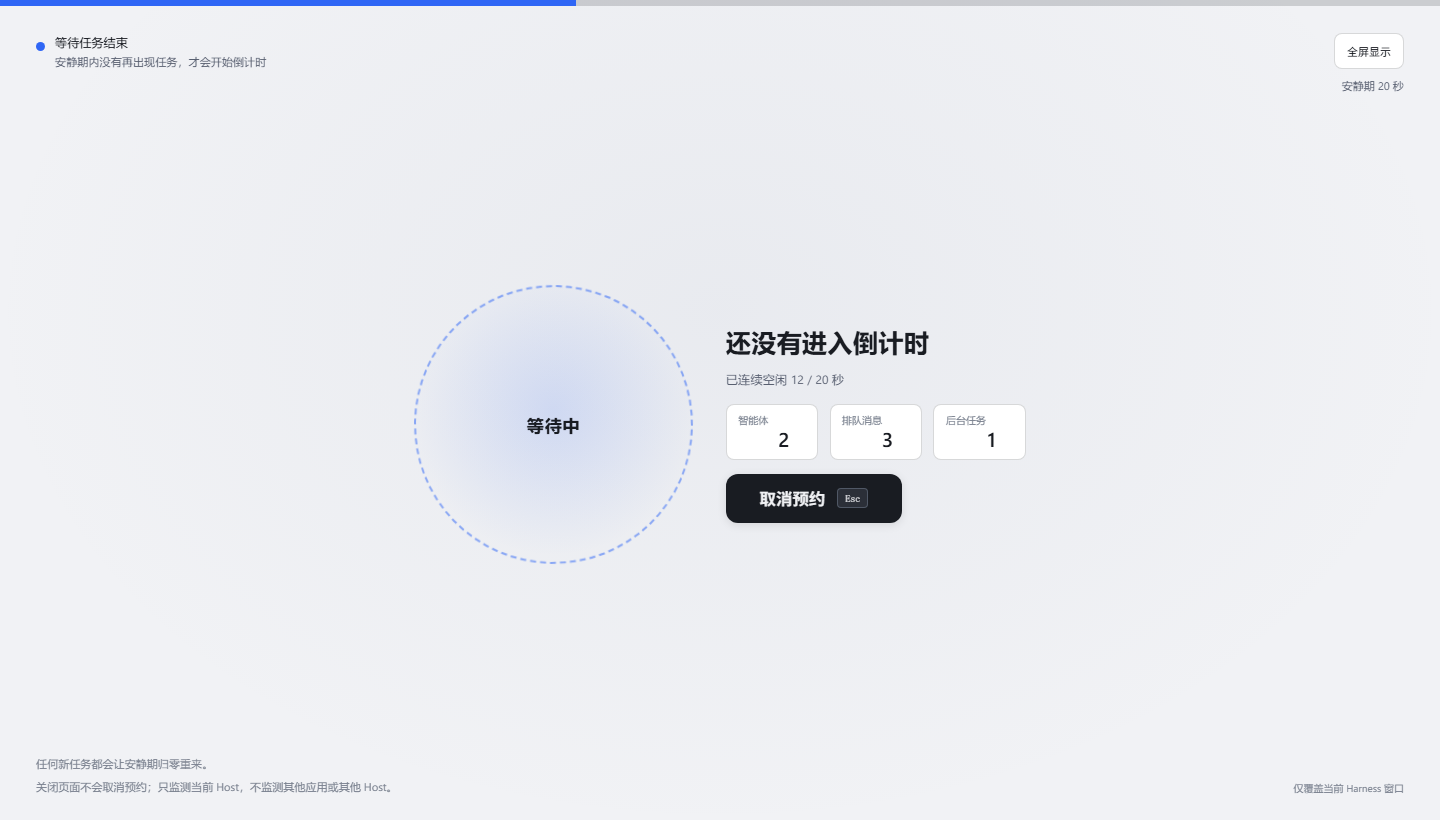
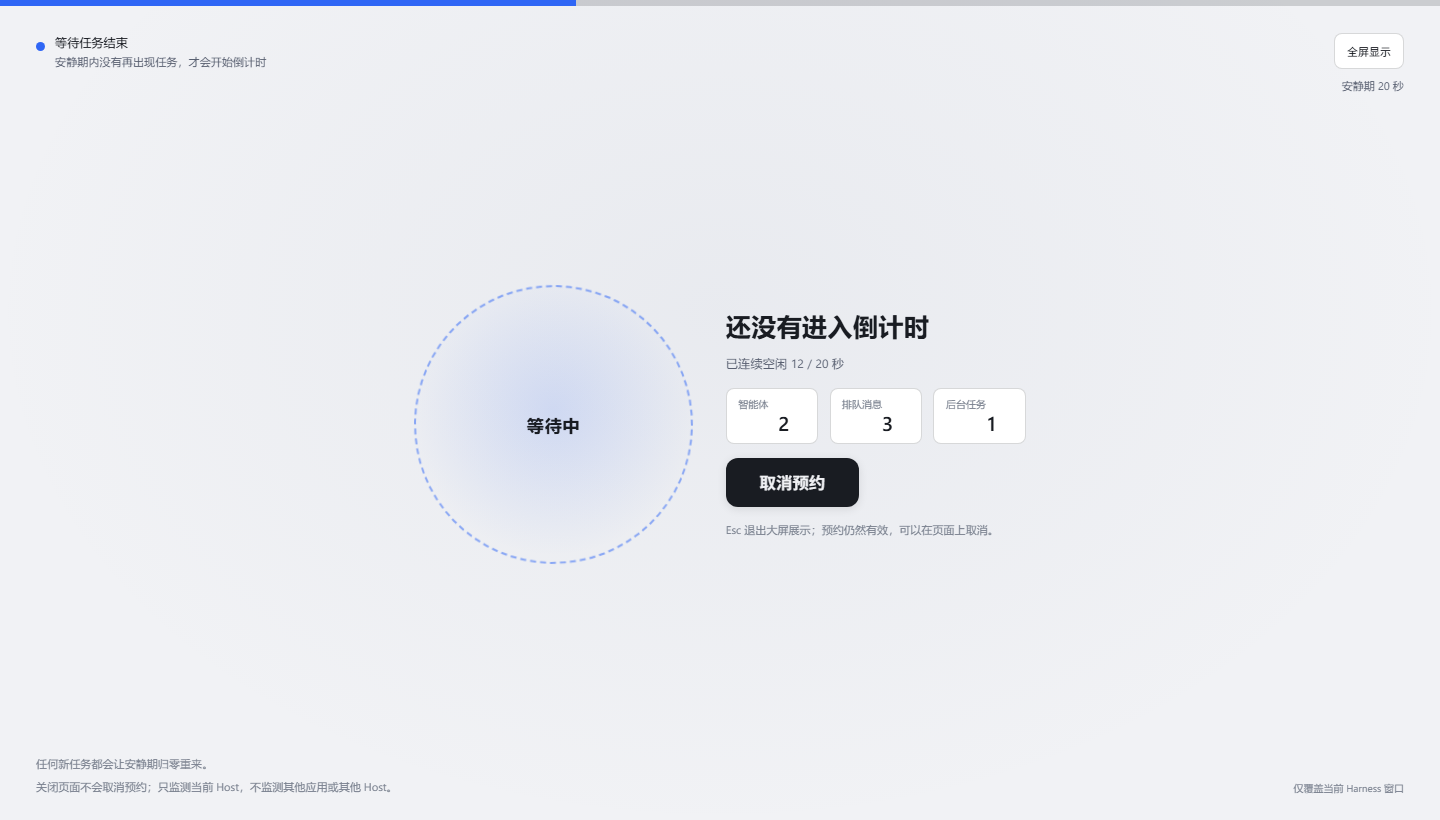
fix(wait): Escape leaves the big screen, not just the OS fullscreen
With "full screen while waiting" on, the first Escape only dropped the window
out of fullscreen while the waiting overlay stayed: neither the app nor the
fullscreen presentation, and the cancel button still advertised Escape for an
action Escape no longer performed.

- The waiting screen is a presentation, not a dialog: Escape now dismisses it
  and releases the screen together, returning to the page with the reservation
  untouched. The dismissal lasts for that waiting phase; the next arm shows the
  screen again.
- The countdown stays non-dismissible on purpose — it is the last warning before
  an irreversible action. While fullscreen it now says so: "Esc leaves
  fullscreen first (the countdown keeps running); a second press cancels."
- The waiting screen's cancel button drops the `Esc` hint and explains what
  Escape actually does.

Changed region(s): [[0.5, 0.3659, 0.6562, 0.5488], [0.5, 0.5183, 0.6875, 0.6707], [0.6562, 0.4878, 0.6875, 0.5183]]

diff --git a/client.js b/client.js
@@ -78,6 +78,7 @@ window.__ModuleLoader__.load({
       'wait.inbox': '排队消息',
       'wait.jobs': '后台任务',
       'wait.hint': '任何新任务都会让安静期归零重来。',
+      'wait.escHint': 'Esc 退出大屏展示；预约仍然有效，可以在页面上取消。',
       'section.notes': '说明',
       'mode.hibernate': '休眠',
       'mode.hibernateDesc': '内存快照落盘，等于断电；下次开机原样恢复窗口和未保存的内容。',
@@ -123,6 +124,7 @@ window.__ModuleLoader__.load({
       'countdown.suffix': '秒',
       'countdown.cancel': '取消',
       'countdown.hint': '有任何新任务开始，倒计时会自动作废。',
+      'countdown.escFullscreen': 'Esc 先退出全屏（倒计时继续），再按一次才会取消。',
       'countdown.quietDone': '已通过 %s 秒持续空闲',
       'countdown.scheduledAt': '预计 %s 执行（本机时间）',
       'countdown.window': '倒计时窗口 %s 秒',
@@ -215,6 +217,7 @@ window.__ModuleLoader__.load({
       'wait.inbox': 'Queued',
       'wait.jobs': 'Jobs',
       'wait.hint': 'Any new task restarts the quiet window.',
+      'wait.escHint': 'Esc closes the big screen; the reservation stays and can be cancelled on the page.',
       'section.notes': 'Notes',
       'mode.hibernate': 'Hibernate',
       'mode.hibernateDesc': 'Writes a memory snapshot to disk, so the next boot restores every open window and unsaved edit.',
@@ -260,6 +263,7 @@ window.__ModuleLoader__.load({
       'countdown.suffix': 's',
       'countdown.cancel': 'Cancel',
       'countdown.hint': 'Any new task voids this countdown automatically.',
+      'countdown.escFullscreen': 'Esc leaves fullscreen first (the countdown keeps running); a second press cancels.',
       'countdown.quietDone': '%s s of continuous idle passed',
       'countdown.scheduledAt': 'Scheduled for %s (local time)',
       'countdown.window': '%s s cancellation window',
@@ -607,6 +611,8 @@ background-color:rgba(9,11,16,.42);
 .ipa-notes{display:flex;flex-direction:column;gap:5px;max-width:min(86ch,72vw)}
 .ipa-notes .ipa-hint{font-size:clamp(11px,1.35vmin,15px);color:var(--dsw-alias-label-tertiary);line-height:1.6;margin:0;overflow-wrap:anywhere}
 .ipa-notes .ipa-hintWarn{color:var(--dsw-alias-label-secondary)}
+/* A hint that sits with the controls rather than in the footer notes. */
+.ipa-stageText .ipa-hintInline{font-size:clamp(11px,1.35vmin,15px);color:var(--dsw-alias-label-tertiary);line-height:1.6;margin:0;max-width:min(56ch,80vw)}
 .ipa-scopeTag{font-size:clamp(10px,1.15vmin,13px);color:var(--dsw-alias-label-tertiary);text-align:right;white-space:nowrap}
 .ipa-feedback{color:var(--dsw-alias-state-error-primary);font-size:clamp(12px,1.5vmin,17px);line-height:1.5;max-width:520px;overflow-wrap:anywhere}
 .ipa-mirrorNote{font-size:clamp(10px,1.15vmin,13px);color:var(--dsw-alias-label-tertiary);line-height:1.5;max-width:44ch}
@@ -773,7 +779,7 @@ background-color:rgba(9,11,16,.42);
      * @returns store handle and the actions every surface shares.
      */
     function createRuntime(ctx) {
-      const store = createStore({ data: EMPTY_STATE, ready: false, offline: false, busy: false, note: null, noteCode: null, notePhase: null, preview: false });
+      const store = createStore({ data: EMPTY_STATE, ready: false, offline: false, busy: false, note: null, noteCode: null, notePhase: null, preview: false, waitDismissed: false });
       const patch = (fields) => store.set((current) => ({ ...current, ...fields }));
 
       let revision = 0;
@@ -799,7 +805,15 @@ background-color:rgba(9,11,16,.42);
           patch({ ready: true, offline: false });
           return;
         }
-        patch({ data: result.value, ready: true, offline: false });
+        const previous = store.getSnapshot();
+        patch({
+          data: result.value,
+          ready: true,
+          offline: false,
+          // A new waiting phase earns the screen back: a dismissal only applies
+          // to the phase the reader dismissed.
+          waitDismissed: previous.data?.phase === result.value.phase ? previous.waitDismissed : false,
+        });
       };
 
       /**
@@ -850,6 +864,9 @@ background-color:rgba(9,11,16,.42);
         setColor,
         setFullscreenOnWait,
         setStayAwake,
+        // Escape closes the waiting presentation without touching the
+        // reservation; the countdown itself is never dismissible.
+        dismissWait: () => patch({ waitDismissed: true }),
         // Previewing the countdown is a client-only state: nothing is armed and
         // no route is touched.
         openPreview: () => patch({ preview: true }),
@@ -1844,7 +1861,7 @@ background-color:rgba(9,11,16,.42);
      * quiet window has come, and the one way out — no digits counting down,
      * because nothing is about to happen yet.
      */
-    function PowerWaitScreen({ usePower, cancel, t }) {
+    function PowerWaitScreen({ usePower, cancel, dismiss, t }) {
       const { data, busy, offline, note, noteCode } = usePower((current) => current);
       const screen = useWholeScreen();
       // `busy` from the snapshot is the in-flight flag; the task counts live in
@@ -1876,15 +1893,16 @@ background-color:rgba(9,11,16,.42);
         if (host === null || typeof host.addEventListener !== 'function') return undefined;
         const onKey = (event) => {
           if (event.key !== 'Escape') return;
-          // Same rule as the countdown: in fullscreen this key means "give me my
-          // desktop back", not "cancel the reservation".
-          if (typeof document !== 'undefined' && document.fullscreenElement) return;
+          // Escape leaves the big screen entirely: the OS fullscreen and this
+          // overlay go away together, and the reservation stays armed. Leaving
+          // the window fullscreen but keeping the overlay was a half-state —
+          // neither the app nor the fullscreen presentation.
           event.preventDefault?.();
-          void stop();
+          dismiss?.();
         };
         host.addEventListener('keydown', onKey);
         return () => host.removeEventListener('keydown', onKey);
-      }, [stopping]);
+      }, [stopping, dismiss]);
 
       return h('div', {
         className: 'ipa-scrim ipa-scrimWait',
@@ -1949,8 +1967,8 @@ background-color:rgba(9,11,16,.42);
                 onClick: () => { void stop(); },
               },
                 t(stopping ? 'wait.cancelling' : 'wait.cancel'),
-                h('kbd', { className: 'ipa-kbd' }, 'Esc'),
               ),
+              h('p', { className: 'ipa-hint ipa-hintInline' }, t('wait.escHint')),
             ),
           ),
           h('div', { className: 'ipa-bottom' },
@@ -2243,6 +2261,7 @@ background-color:rgba(9,11,16,.42);
           h('div', { className: 'ipa-bottom' },
             h('div', { className: 'ipa-notes' },
               h('p', { className: 'ipa-hint' }, preview ? t('preview.hint') : t('countdown.hint')),
+              screen.fullscreen && !preview && h('p', { className: 'ipa-hint' }, t('countdown.escFullscreen')),
               h('p', { className: 'ipa-hint' }, preview ? t('preview.scope') : t('note.scope')),
               extended && h('p', { className: 'ipa-hint' }, t('countdown.multiNote')),
               data.mode === 'shutdown' && h('p', { className: 'ipa-hint ipa-hintWarn' }, t('note.shutdown')),
@@ -2337,11 +2356,13 @@ background-color:rgba(9,11,16,.42);
           inject: () => ({
             hooks: { power: runtime.store },
             cancel: runtime.cancel,
+            dismiss: runtime.dismissWait,
           }),
-        }, function WaitWhenArmed({ usePower, cancel, t }) {
+        }, function WaitWhenArmed({ usePower, cancel, dismiss, t }) {
           const snapshot = usePower((current) => current);
           if (snapshot.data.fullscreenOnWait !== true || snapshot.data.phase !== 'armed') return null;
-          return h(PowerWaitScreen, { usePower, cancel, t });
+          if (snapshot.waitDismissed === true) return null;
+          return h(PowerWaitScreen, { usePower, cancel, dismiss, t });
         }));
 
         // The preview shares the countdown component but never touches the Host.

diff --git a/README.md b/README.md
@@ -123,7 +123,7 @@ From top to bottom the page shows the current state (not scheduled / waiting · 
 - **Countdown background** — three preview tiles that draw the countdown window each preset produces (solid / frosted glass / gaussian blur), applied immediately and persisted on the Host.
 - **A solid surface can be recoloured** — with the solid preset selected, a colour row offers the theme, six presets (four dark, two light) and the system colour picker; the ink switches between black and white by luminance.
 - **A reservation keeps the machine awake** — an idle desktop turns the display off, then locks, then sleeps, and a **suspended Host never reaches the end of its countdown**: that is exactly why "the shutdown stopped working after the lock screen". While a reservation is pending the plugin holds `SetThreadExecutionState(ES_CONTINUOUS | ES_SYSTEM_REQUIRED | ES_DISPLAY_REQUIRED)`, so it neither sleeps nor blanks the display (and therefore never auto-locks), and releases it the moment the reservation ends or the command is committed. The switch lives in the "Stay awake" section and is on by default.
-- **The waiting phase can take the screen too** — with "Whole screen → Full screen while waiting" on, arming goes straight to a fullscreen waiting screen: what is still running, the quiet-window progress, and Cancel. When the quiet window passes it hands the screen to the countdown without ever leaving fullscreen.
+- **The waiting phase can take the screen too** — with "Whole screen → Full screen while waiting" on, arming goes straight to a fullscreen waiting screen: what is still running, the quiet-window progress, and Cancel. When the quiet window passes it hands the screen to the countdown without ever leaving fullscreen. `Esc` takes the whole presentation away (fullscreen included) and keeps the reservation; the countdown screen cannot be dismissed.
 
 ![The waiting screen](docs/wait.png)
 - **Countdown preview** — the Preview button in that section runs the real countdown component for ten seconds with the current colour, background and mode. Nothing is armed, no route is called, and it closes itself at zero.
@@ -134,7 +134,7 @@ From top to bottom the page shows the current state (not scheduled / waiting · 
 - **Connection state** — "Loading status…" before the first answer, "Cannot reach the plugin Host" with controls disabled when the connection drops, "Submitting…" while a request is in flight so a button cannot be pressed twice.
 - **Failure state** — if cancelling the countdown fails, the dialog stays and says cancellation is unconfirmed instead of pretending it worked.
 
-Keyboard: `Esc` cancels the countdown (and leaves fullscreen first when fullscreen is on); modes, backgrounds and colours are native radio groups (a radio inside a `<label>` card), so the arrow keys move and select; `Tab` cycles through every button inside the dialog instead of escaping it.
+Keyboard: on the **waiting screen** `Esc` closes the whole presentation (fullscreen and overlay together) and keeps the reservation; the **countdown screen** cannot be dismissed — `Esc` leaves fullscreen first (the countdown keeps running) and a second press cancels; windowed, `Esc` cancels directly; modes, backgrounds and colours are native radio groups (a radio inside a `<label>` card), so the arrow keys move and select; `Tab` cycles through every button inside the dialog instead of escaping it.
 
 ## Configuration
 

diff --git a/README.zh-CN.md b/README.zh-CN.md
@@ -125,7 +125,7 @@
 - **倒计时背景**：三张预览卡直接画出每档下倒计时窗口的样子（纯色 / 毛玻璃 / 高斯模糊），点一下即时生效并写入 Host。
 - **纯色可换颜色**：选「纯色」时下方出现颜色行——跟随主题、六个预设（四深两浅），或用系统取色器自定义；文字颜色按底色亮度自动选黑或白。
 - **预约期间不让电脑睡过去**：电脑空闲久了会关屏、进而锁屏甚至休眠，而**被挂起的 Host 根本不会走到倒计时终点**——这正是「锁屏之后关机就不管用了」的原因。插件在预约期间用一个后台 helper 申请 `SetThreadExecutionState(ES_CONTINUOUS|ES_SYSTEM_REQUIRED|ES_DISPLAY_REQUIRED)`，既不休眠也不关屏（因此不会自动锁屏），取消预约或命令提交后立刻释放；开关在「保持唤醒」区，默认开启。
-- **等待也能整屏**：打开「整屏展示 → 等待时也整屏」后，预约一建立就进入全屏的等待屏——显示还在跑的任务、安静期进度和「取消预约」；安静期走完自动交棒给倒计时屏，全程不退出全屏。
+- **等待也能整屏**：打开「整屏展示 → 等待时也整屏」后，预约一建立就进入全屏的等待屏——显示还在跑的任务、安静期进度和「取消预约」；安静期走完自动交棒给倒计时屏，全程不退出全屏。按 `Esc` 可以把这层展示整个收掉（全屏一起退），预约照旧；倒计时屏不可关闭。
 
 ![等待屏](docs/wait.png)
 - **倒计时预览**：背景区右上角「预览」用真实的倒计时组件演一遍 10 秒，颜色、背景、模式都按当前选择来，不预约、不调用任何 Host 路由，到 0 自动结束。
@@ -136,7 +136,7 @@
 - **状态反馈**：首次读取时显示「正在读取状态…」，断线显示「连不上插件 Host」并禁用操作；提交中显示「正在提交…」，按钮不会重复触发。
 - **失败反馈**：倒计时里取消失败会保留弹窗并提示「取消尚未确认，请重试」，不会假装取消成功。
 
-键盘操作：全屏状态下 `Esc` 先退出全屏（不会顺手取消预约），再按一次才取消倒计时；非全屏时 `Esc` 直接取消；模式和背景都是原生单选组（单选按钮 + `<label>` 卡片），方向键在选项间移动并选中；倒计时与等待屏里 `Tab` 遍历弹窗内所有可用按钮（不会跑出弹窗）。
+键盘操作：**等待屏**里 `Esc` 直接关掉整块大屏展示（全屏和遮罩一起退，预约保留，回页面就能取消）；**倒计时屏**不可关闭，`Esc` 先退出全屏（倒计时继续），再按一次才取消；非全屏时 `Esc` 直接取消；模式和背景都是原生单选组（单选按钮 + `<label>` 卡片），方向键在选项间移动并选中；倒计时与等待屏里 `Tab` 遍历弹窗内所有可用按钮（不会跑出弹窗）。
 
 ### 交互动效
 
